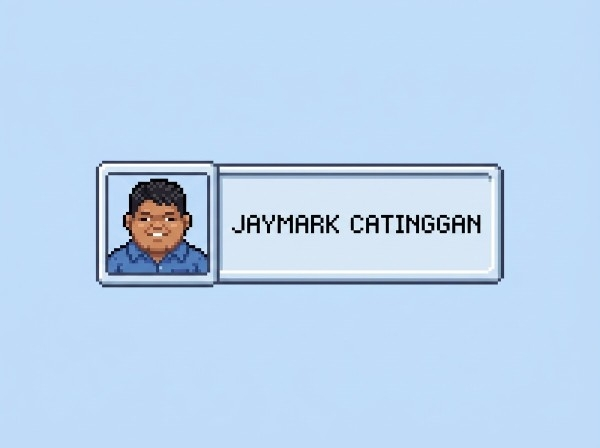
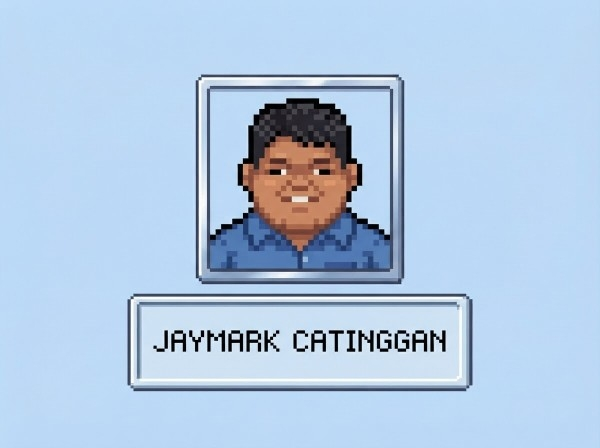
fit image size in narration

Changed region(s): [[0.15, 0.1562, 0.84, 0.875]]

diff --git a/shared/css/narration.css b/shared/css/narration.css
@@ -35,15 +35,29 @@
 .narr-panel[hidden] { display: none; }
 
 .narr-panel__char {
+  position: relative;
   flex: 0 0 auto;
-  width: 140px;
+  align-self: flex-start;
+  width: 200px;
+  height: 220px;
   display: flex;
-  align-items: flex-end;
+  align-items: center;
   justify-content: center;
+  overflow: hidden;
   background: rgba(255, 255, 255, 0.08);
   border: 3px solid var(--ink);
 }
-.narr-panel__img { display: block; max-width: 100%; max-height: 180px; object-fit: contain; image-rendering: pixelated; }
+/* The portrait fills its frame (scaled up, never stretched), anchored to the bottom so face + shoulders sit low */
+.narr-panel__img {
+  position: absolute;
+  inset: 0;
+  display: block;
+  width: 100%;
+  height: 100%;
+  object-fit: contain;
+  object-position: center bottom;
+  image-rendering: pixelated;
+}
 .narr-panel__fallback {
   align-self: center;
   padding: 8px;
@@ -76,8 +90,7 @@
 
 @media (max-width: 560px) {
   .narr-panel { flex-direction: column; gap: 10px; bottom: 8px; padding: 10px; }
-  .narr-panel__char { width: 100%; height: 72px; }
-  .narr-panel__img { max-height: 66px; }
+  .narr-panel__char { width: 100%; height: 150px; }
   .narr-panel__btn { flex: 1 1 auto; }
   .narr-panel__box { padding: 12px; }
   .narr-panel__text { max-height: 22vh; }

diff --git a/sections/01-what-is-globalization/index.html b/sections/01-what-is-globalization/index.html
@@ -10,8 +10,8 @@
   <link href="https://fonts.googleapis.com/css2?family=Press+Start+2P&family=VT323&display=swap" rel="stylesheet" />
 
   <link rel="stylesheet" href="../../shared/css/global.css" />
-  <link rel="stylesheet" href="../../shared/css/narration.css?v=narration4" />
-  <link rel="stylesheet" href="css/style.css?v=narration4" />
+  <link rel="stylesheet" href="../../shared/css/narration.css?v=narration5" />
+  <link rel="stylesheet" href="css/style.css?v=narration5" />
 </head>
 <body>
   <!-- SECTION 01: WHAT IS GLOBALIZATION?
@@ -128,7 +128,7 @@
   </main>
 
   <script src="../../shared/js/nav.js"></script>
-  <script src="../../shared/js/narration.js?v=narration4"></script>
-  <script src="js/script.js?v=narration4"></script>
+  <script src="../../shared/js/narration.js?v=narration5"></script>
+  <script src="js/script.js?v=narration5"></script>
 </body>
 </html>

diff --git a/index.html b/index.html
@@ -11,7 +11,7 @@
 
   <!-- Shared styles first, then this page's styles -->
   <link rel="stylesheet" href="shared/css/global.css" />
-  <link rel="stylesheet" href="shared/css/narration.css" />
+  <link rel="stylesheet" href="shared/css/narration.css?v=narration5" />
   <link rel="stylesheet" href="sections/cover/css/cover.css?v=narration3" />
 </head>
 <body>
@@ -48,7 +48,7 @@
     <button class="pixel-btn cover__start" id="startBtn" type="button">Start Atlas</button>
   </main>
 
-  <script src="shared/js/narration.js"></script>
+  <script src="shared/js/narration.js?v=narration5"></script>
   <script src="sections/cover/js/cover.js?v=narration3"></script>
 </body>
 </html>
